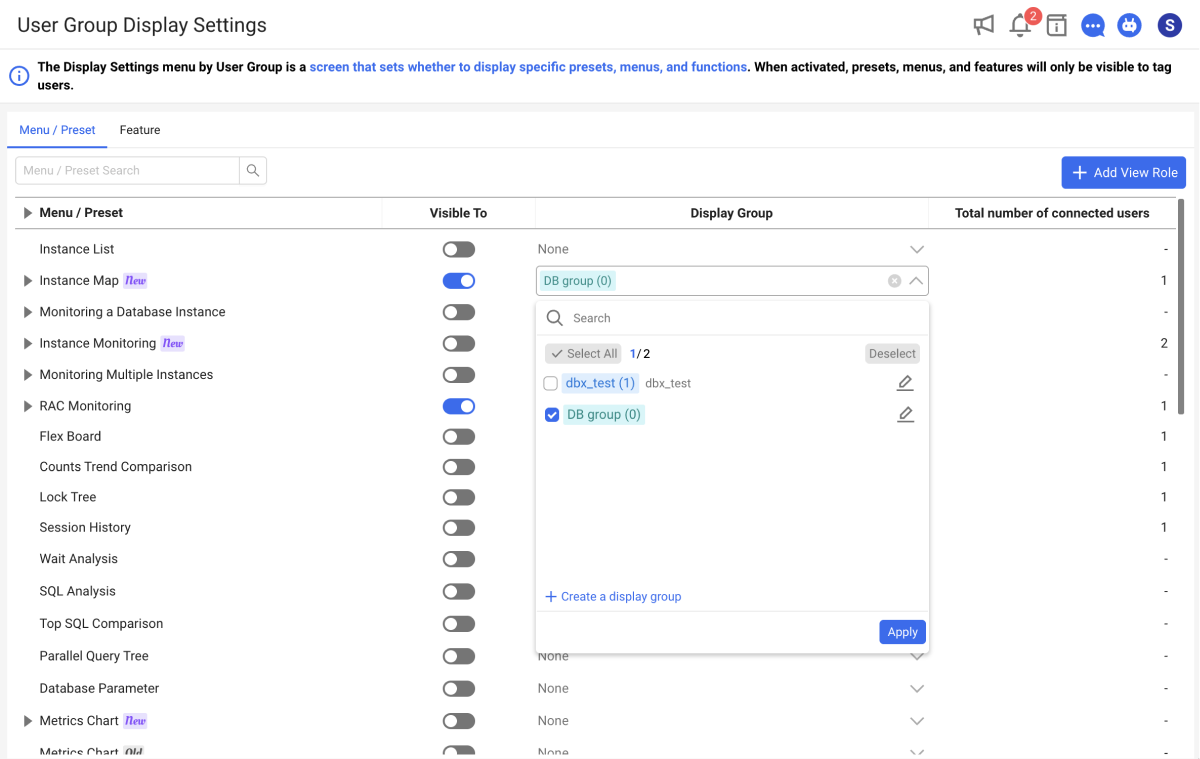
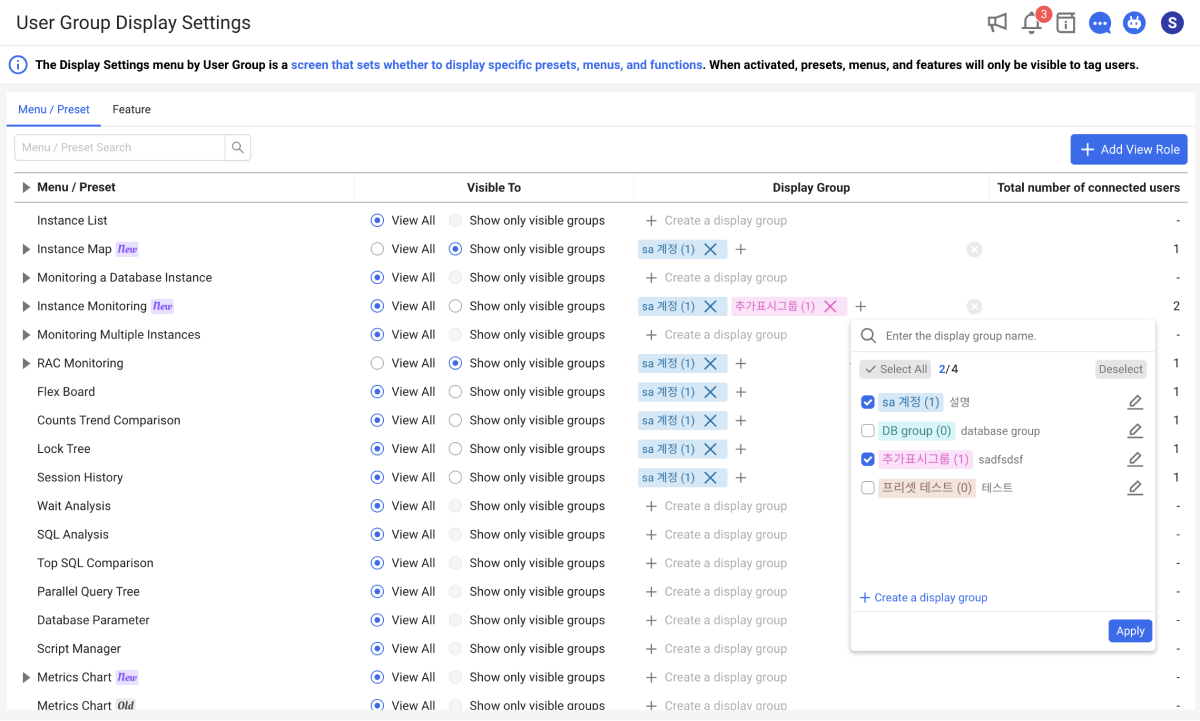
SERVICE-2794 db 사용자 그룹별 표시 설정 이미지 및 내용 수정

diff --git a/sidebars.js b/sidebars.js
@@ -1880,6 +1880,15 @@ const sidebars = {
             'sapase/common-alert'
           ],
         },
+        {
+          type: 'category',
+          label: '관리',
+          collapsible: true,
+          collapsed: true,
+          items: [
+            'sapase/user-group-display-settings',
+          ],
+        },
         'sapase/labs'
       ],
     }
